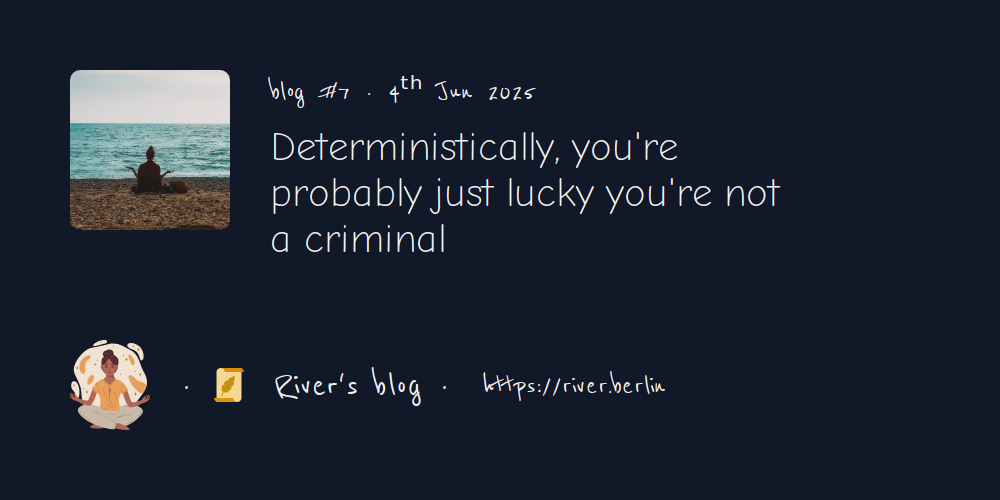
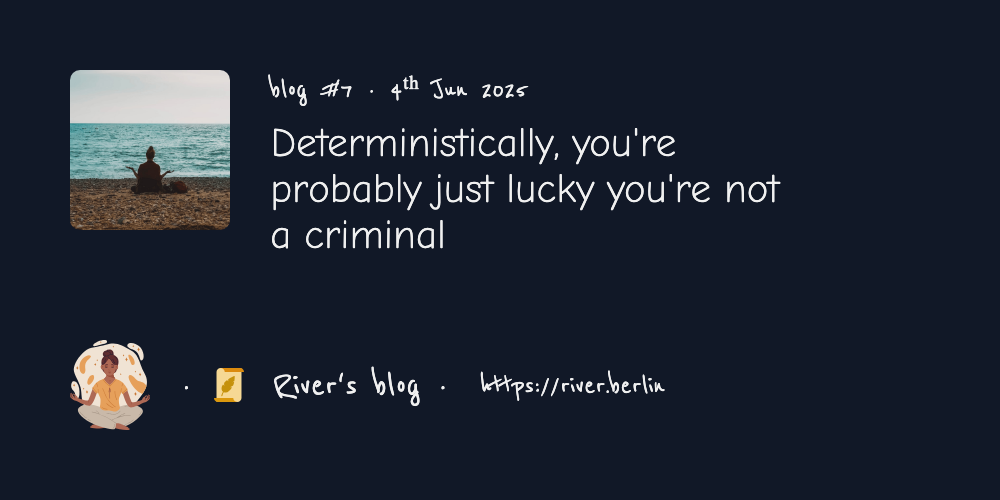
added speckles in the background

diff --git a/app/src/lib/BackgroundArtifacts.svelte b/app/src/lib/BackgroundArtifacts.svelte
@@ -1,0 +1,125 @@
+<script lang="ts">
+    import { onMount } from 'svelte';
+    import { browser } from '$app/environment';
+
+    let canvas: HTMLCanvasElement;
+    let ctx: CanvasRenderingContext2D | null;
+    let isDarkMode = false;
+    let animationFrameId: number;
+
+    // Constants for density and size
+    const DOT_DENSITY = 0.01; // dots per square pixel
+    const MIN_RADIUS = 0.5;
+    const MAX_RADIUS = 1.5;
+
+    interface Dot {
+        x: number;
+        y: number;
+        radius: number;
+        opacity: number;
+        isLight: boolean; // whether it's a lighter dot or a darker dot (for dark mode contrast)
+    }
+
+    let dots: Dot[] = [];
+
+    function generateDots(width: number, height: number) {
+        dots = [];
+        const numDots = Math.floor(width * height * DOT_DENSITY);
+        
+        for (let i = 0; i < numDots; i++) {
+            dots.push({
+                x: Math.random() * width,
+                y: Math.random() * height,
+                radius: MIN_RADIUS + Math.random() * (MAX_RADIUS - MIN_RADIUS),
+                opacity: 0.1 + Math.random() * 0.4, // Base opacity to be scaled based on mode
+                isLight: Math.random() > 0.8 // 20% chance of being a lighter dot (used in dark mode)
+            });
+        }
+    }
+
+    function checkDarkMode() {
+        if (!browser) return false;
+        return document.documentElement.classList.contains('dark');
+    }
+
+    function draw() {
+        if (!ctx || !canvas) return;
+
+        const width = canvas.width;
+        const height = canvas.height;
+
+        ctx.clearRect(0, 0, width, height);
+
+        // Update dark mode state
+        isDarkMode = checkDarkMode();
+
+        for (const dot of dots) {
+            ctx.beginPath();
+            ctx.arc(dot.x, dot.y, dot.radius, 0, Math.PI * 2);
+            
+            if (isDarkMode) {
+                if (dot.isLight) {
+                    ctx.fillStyle = `rgba(255, 255, 255, ${dot.opacity * 0.125})`;
+                } else {
+                    ctx.fillStyle = `rgba(0, 0, 0, ${dot.opacity * 0.75})`;
+                }
+            } else {
+                ctx.fillStyle = `rgba(0, 0, 0, ${dot.opacity * 0.2})`;
+            }
+            
+            ctx.fill();
+        }
+    }
+
+    function resize() {
+        if (!canvas) return;
+        
+        const dpr = window.devicePixelRatio || 1;
+        const container = canvas.parentElement;
+        if (!container) return;
+        
+        const width = container.clientWidth;
+        const height = container.clientHeight;
+        
+        canvas.width = width * dpr;
+        canvas.height = height * dpr;
+        canvas.style.width = `${width}px`;
+        canvas.style.height = `${height}px`;
+        
+        ctx = canvas.getContext('2d');
+        if (ctx) {
+            ctx.scale(dpr, dpr);
+        }
+        
+        generateDots(width, height);
+        draw();
+    }
+
+    onMount(() => {
+        if (!browser) return;
+
+        resize();
+        window.addEventListener('resize', resize);
+        
+        // Use MutationObserver to watch for dark mode changes on the html element
+        const observer = new MutationObserver(() => {
+            draw();
+        });
+        
+        observer.observe(document.documentElement, {
+            attributes: true,
+            attributeFilter: ['class']
+        });
+
+        return () => {
+            window.removeEventListener('resize', resize);
+            observer.disconnect();
+        };
+    });
+</script>
+
+<canvas
+    bind:this={canvas}
+    class="absolute inset-0 pointer-events-none z-0"
+    aria-hidden="true"
+></canvas>

diff --git a/app/src/routes/+layout.svelte b/app/src/routes/+layout.svelte
@@ -4,6 +4,7 @@
     import { onMount } from 'svelte'
     import FireFlies from './fireflies'
     import { page } from '$app/stores'
+    import BackgroundArtifacts from '$lib/BackgroundArtifacts.svelte'
     
     let fireflies: FireFlies | null = null;
     
@@ -25,10 +26,14 @@
     });
 </script>
 
-<div class="min-h-screen bg-white dark:bg-[#08324c] text-gray-900 dark:text-white transition-colors duration-200">
+<div class="min-h-screen page-background text-gray-900 dark:text-white transition-colors duration-200 relative">
+    <div class="absolute inset-0 pointer-events-none z-0">
+        <BackgroundArtifacts />
+    </div>
     <div id="fireflies-container" class="fixed inset-0 pointer-events-none z-10"></div>
     <Header />
     <main class="mx-auto max-w-7xl px-4 sm:px-6 lg:px-8 pb-12">
         <slot />
     </main>
 </div>
+

diff --git a/app/src/app.css b/app/src/app.css
@@ -18,6 +18,14 @@ html{
     margin: 0;
 }
 
+.page-background {
+    background-color: #ffffff;
+}
+
+html.dark .page-background {
+    background-color: #08324c;
+}
+
 code {
     font-weight: 400 !important;
 }
